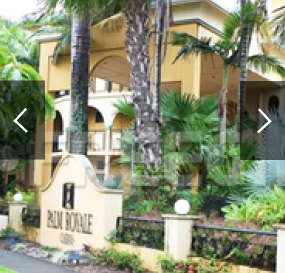
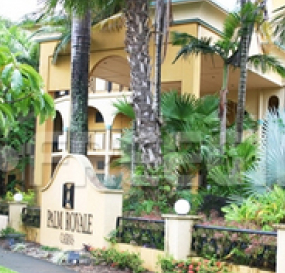
tour

Changed region(s): [[0.8421, 0.293, 1.0, 0.5861], [0.0, 0.293, 0.1684, 0.5861]]

diff --git a/03tour/index.html b/03tour/index.html
@@ -9,10 +9,14 @@
     <link rel="stylesheet" href="css/style.css">
     <link rel="stylesheet" href="css/jquery.bxslider.css">
     <script src="https://kit.fontawesome.com/70f664317a.js" crossorigin="anonymous"></script>
+    <script src="js/jquery-3.1.1.min.js"></script>
+    <script src="js/jquery.bxslider.js"></script>
+    <script src="js/jquery.colorbox-min.js"></script>
+
+    <script></script>
 </head>
 <body>
 
-    
     <header>
         <div class="topWrap">
             <div class="top">
@@ -50,128 +54,68 @@
             </div>
         </div>
     </header>
-    <section class="section">
-        <div class="container contentWrap">
-            <ul class="clearfix">
-                <li class="content1">
-                    <ul class="slider01">
-                        <li></li>
-                    </ul>
-                </li>
-                <li class="content2">
-                    <ul>
-                        <li><h1>TRAVEL <u>GO</u></h1></li>
-                        <li>지금,여행이 떠나고 싶다면?<br>웹투어와 여행을 떠나자!</li>
-                    </ul>
-                </li>
-                <li class="content3">
-                    <div>
+    <section>
+        <div class="content1Wrap">
+            <div class="content1">
+                <div class="content1-1"> 
 
-                        <img src="images/content3.jpg" alt="" class="backimg">
-                        <ul class="txtWrap">
-                            <li><b>보라카이</b></li>
-                            <li>￦900,000~</li>
-                            <li><img src="images/Frame 128.jpg" alt=""></li>
-                         </ul>
-                    </div>
-                </li>
-                <li class="content4">
-                    <div>
-                        
-                        <img src="images/content4.jpg" alt="" class="backimg">
-                        <ul class="txtWrap">
-                            <li><b>호주</b></li>
-                            <li>￦1,900,000~</li>
-                            <li><img src="images/Frame 128.jpg" alt=""></li>
-                         </ul>
-                    </div>
-        
-                </li>
-                <li class="content5">5</li>
-                <li class="content6">6</li>
-                <li class="content7">
-                    <div>
-                        <img src="images/content7.jpg" alt="">
-                        <p>TOKYO</p>
-                        <ul>
-                            <li>20℃ 구름조금</li>
-                            <li>습도60%바람 남남동 2m/s</li>
+                </div>
+                <div class="content1-2">
+                    <ul>
+                        <li>
+                            <img src="images/content3.jpg" alt="">
+                            <ul class="txt1">
+                                <li>보라카이</li>
+                                <li>￦900,000~</li>
+                                <li><img src="images/Frame 128.jpg" alt=""></li>
+                            </ul>
+                        </li>
+                        <li>
+                            <img src="images/content4.jpg" alt="">
+                            <ul class="txt2">
+                                <li>호주</li>
+                                <li>￦1,900,000~</li>
+                                <li><img src="images/Frame 128.jpg" alt=""></li>
+                            </ul>
+                        </li> 
                     </ul>
-                    </div>
-                </li>
-                <li class="content8">
-                    <div>
-                        <img src="images/content8.jpg" alt="" class="img1">
-                        <div class="txt">
-                            <p class="txt1">"해외여행은 처음이었는데<br>웹투어여행 덕분에 무사히<br>다녀올 수 있었어요."</p>
-                            <p class="txt2">프랑스 파리 자유여행</p>
-                            <img class="img2" src="images/star.jpg" alt="">
-                        </div>
-                        <ul>
-                            <li>facebookc여행후기</li>
-                            <li>(이세진님)</li>
-                    </ul>
-                    </div>
-                </li>
-                <li class="content9-12 9">
-        
-                        <img src="images/content9.jpg" alt="">
-                        <div class="content9-12txt1">
-                            <i class="fa-solid fa-earth-americas"></i>여행정보
-                        </div>
-                        <div class="content9-12txt2">
-                            다양한 나라의 명소와 맛집 등<br>상세한 정보를 볼 수 있습니다.
-                        </div>
-                        <div class="plusWrap">
-                            <div class="plus1"></div>
-                            <div class="plus2"></div>
-                        </div>
-        
-                </li>
-                <li class="content9-12 10">
-                    <img src="images/content10.jpg" alt="">
-        
-                    <div class="content9-12txt1">
-                        <i class="fa-solid fa-utensils"></i>맛집정보
-                    </div>
-                    <div class="content9-12txt2">
-                        다양한 나라의 명소와 맛집 등<br>상세한 정보를 볼 수 있습니다.
-                    </div>
-                    <div class="plusWrap">
-                        <div class="plus1"></div>
-                        <div class="plus2"></div>
-                    </div>
-                </li>
-                <li class="content9-12 11">
-                    <img src="images/content11.jpg" alt="">
-                    <div class="content9-12txt1">
-                        <i class="fa-solid fa-hotel"></i>숙박정보
-                    </div>
-                    <div class="content9-12txt2">
-                        다양한 나라의 명소와 맛집 등<br>상세한 정보를 볼 수 있습니다.
-                    </div>
-                    <div class="plusWrap">
-                        <div class="plus1"></div>
-                        <div class="plus2"></div>
-                    </div>
-                </li>
-                <li class="content9-12 12">
-        
-                    <img src="images/content12.jpg" alt="">
-                    <div class="content9-12txt1">
-                        <i class="fa-solid fa-thumbs-up"></i>여행자후기
-                    </div>
-                    <div class="content9-12txt2">
-                        다양한 나라의 명소와 맛집 등<br>상세한 정보를 볼 수 있습니다.
-                    </div>
-                    <div class="plusWrap">
-                        <div class="plus1"></div>
-                        <div class="plus2"></div>
-                    </div>
-        
-                </li>
-            </ul>
+                </div>
+            </div>
         </div>
+        <div class="content2Wrap">
+            <div>
+                <img src="images/content5.jpg" alt="">
+                <ul class="txtWrap">
+                    <li>HILLTON HOTEL(PARIS)</li>
+                    <li><img src="images/star1.jpg" alt=""></li>
+                </ul>
+            </div>
+            <div>
+                <img src="images/content5.jpg" alt="">
+                <ul class="txtWrap">
+                    <li>관광명소(디즈니랜드)</li>
+                    <li><img src="images/star1.jpg" alt=""></li>
+                </ul>
+            </div>
+            <div>
+                <img src="images/content5.jpg" alt="">
+                <ul class="txtWrap">
+                    <li>20℃ 구름조금</li>
+                    <li>습도60%바람 남남동 2m/s</li>
+                </ul>
+            </div>
+            <div>
+                <img src="images/content5.jpg" alt="">
+                <ul class="txtWrap">
+                    <li>facebookc여행후기</li>
+                    <li>(이세진님)</li>
+                </ul>
+            </div>
+        </div>
+        <div class="content3Wrap">
+
+        </div>
+
     </section>
             
 

diff --git a/03tour/css/style.css b/03tour/css/style.css
@@ -2,7 +2,7 @@
     .body{min-width: 1200px;}
     /* header start*/
 
-    .topWrap{width: 1920px;}
+    
     .topWrap .top{
         width: 1200px;
         margin: 0 auto;
@@ -42,97 +42,39 @@
     .number li{float: left;padding: 2px;}
     .number li>img{display: block;}
 
-    .menuWrap{width: 1920px;border-top: 1px solid #DEDEDE;}
+    .menuWrap{border-top: 1px solid #DEDEDE;margin-bottom: 20px;}
     .menu{width: 1200px;margin: 0 auto;}
     .menu>ul{display: flex;justify-content:space-between;align-items: center;}
-    .menu>ul>li{font-size: 20   px;text-align: center;padding: 20px 30px;}
+    .menu>ul>li{font-size: 20px;text-align: center;padding: 20px 30px;}
 
     /* header end */
 
     /* section start  */
-    section.section{
-        height: 1400px;
-        background-image: url(../images/bg.jpg);
-        background-repeat: repeat,no-repeat;
-        background-position: center;
-        background-size: auto,cover;
-        padding: 70px 0;
+
+    .content1Wrap{width: 1200px;margin: 0 auto;height: 670px;background: pink;margin-bottom: 20px;}
+    .content1{width: 590px;background: #000;height: 670px;}
+    .content1 .content1-1{width: 590px;height: 360px;background: blue;margin-bottom: 20px;}
+    .content1 .content1-2{width: 590px;height: 290px;background: red;}
+    .content1-2>ul{display: flex;justify-content: space-between;align-items: center;}
+ 
+    .content1-2>ul>li>img{display: block;width: 285px;height: 225px;}
+    .content1-2 .txt1,.txt2{
+        display: flex;justify-content: space-between;align-items: center;height: 65px;width: 100%;
+        background: #58D20A;padding: 0 20px;cursor: pointer;color: #fff;
     }
-
-    .container{width: 1200px;margin: 0 auto;}
-    .container>ul{position: relative;}
-    .contentWrap>ul>li{position: absolute;width: 285px;height: 290px;}
-    .contentWrap>ul>li:nth-child(1){width: 590px;background: blue;}
-    .contentWrap>ul>li:nth-child(2){width: 590px;height: 600px;left: 610px;margin: 0 none}
-
-    .contentWrap>ul>li:nth-child(3){top: 310px;}
-    .contentWrap>ul>li:nth-child(4){top: 310px;left: 305px;}
-    .contentWrap>ul>li:nth-child(5){top: 620px;}
-    .contentWrap>ul>li:nth-child(6){top: 620px;left: 305px;}
-    .contentWrap>ul>li:nth-child(7){top: 620px;left: 610px;}
-    .contentWrap>ul>li:nth-child(8){top: 620px;left: 915px;}
-    .contentWrap>ul>li:nth-child(9){top: 930px;}
-    .contentWrap>ul>li:nth-child(10){top: 930px;left: 305px;}
-    .contentWrap>ul>li:nth-child(11){top: 930px;left: 610px;}
-    .contentWrap>ul>li:nth-child(12){top: 930px;left: 915px;}
-
-    .content2{position: relative;}
-    .content2>ul{position: absolute;top: 50px;left: 50px;}
-    .content2>ul>li{font-size: 24px;}
-    .content2>ul>li>h1{font-size: 60px;margin-bottom: 10px;}
-
-    .content3,.content4{position: relative;}
-
-    .content3 .backimg,.content4 .backimg{display: block;width: 100%;height: 260px;;}
-    .content3 .txtWrap,.content4 .txtWrap{
-        position: absolute;bottom: 0;height: 65px;background: #58D20A;width: 100%;
-        display: flex;justify-content: space-between;align-items: center;color: #fff;
-        font-size: 18px;padding: 0 20px;cursor: pointer;
+    .content2Wrap{
+        width:1200px;margin: 0 auto;height:290px;background: purple;
+        display: flex;justify-content: space-between;align-items: center;
     }
-    .content3 .txtWrap>li>img,.content4 .txtWrap>li>img{width: 30px;height: 30px;}
+    
+    .content2Wrap>div{position:relative;}
+    .content2Wrap>div>img{display: block;;width: 285px;height: 290px;}
+    .content2Wrap .txtWrap{position: absolute;bottom: 0;width: 100%;;height: 80px;padding: 20px;background:#58D20A;color: #fff;}
+    .content2Wrap>div>ul>li:nth-child(1){font-size: 20px;margin-bottom: 5px;}
+    .content2Wrap>div>ul>li:nth-child(2){font-size: 16px;}
 
 
-    .content7 {position: relative;}
-    .content7 img{width: 100%;height: 290px;}
-    .content7 p{position: absolute;top: 20px;left: 107.5px;font-size: 22px;color:#fff}
-    .content7 ul{
-        position: absolute;bottom: 0;height: 80px;background: rgba(88, 210, 10, 0.6);width: 100%;
-        padding: 20px 20px;color: #fff;
-    }
-    .content7 ul>li:nth-child(1){font-size: 20px;}
-    .content7 ul>li:nth-child(2){font-size: 16px;}
-
-    .content8{position: relative;}
-    .content8 .img1{height: 260px;width: 100%;}
-    .content8 .txt{position: absolute;top: 20px;left: 20px;font-size: 14px;}
-    .content8 .txt1{margin-bottom: 20px;}
-    .content8 .txt2{color:#647CAC;margin-bottom: 10px;}
-
-    .content8 ul{
-        position: absolute;bottom: 0;height: 80px;background: #58D20A;width: 100%;
-        padding: 20px 20px;color: #fff;}
-    .content8 ul>li:nth-child(1){font-size: 20px;}
-    .content8 ul>li:nth-child(2){font-size: 16px;}
-
-    .content9-12 {position: relative;}
-    .content9-12 img{height: 290px;width: 100%;display: block;}
-    .content9-12 .content9-12txt1{position: absolute;top:20px;left:85px;font-size: 22px;color: #fff;font-weight: bold;}
-    .content9-12 .content9-12txt2{position: absolute;top:60px;left:40px;font-size: 16px;color: #fff;}
-
-    .content9-12 .plusWrap{
-        width: 50px;height: 50px;position: absolute;
-        top: 50%;left: 50%;transform:translate(-50%,-50%);border-radius: 25px;border: 4px solid #fff;
-        display: flex;justify-content: center;align-items: center;cursor: pointer;
-    }
-
-    .content9-12 .plusWrap div{width: 20px;height: 4px;position: absolute;background: #fff;border-radius: 2px;}
-    .content9-12 .plusWrap .plus2{transform:rotate(90deg)}
-
-    .contentWrap>ul>li:nth-child(10) .content9-12txt1{top: 180px;}
-    .contentWrap>ul>li:nth-child(11) .content9-12txt1{top: 180px;}
-    .contentWrap>ul>li:nth-child(10) .content9-12txt2{top: 220px;}
-    .contentWrap>ul>li:nth-child(11) .content9-12txt2{top: 220px;}
-    .contentWrap>ul>li:nth-child(12) .content9-12txt1{left: 75px;}
 
 
+    
 
